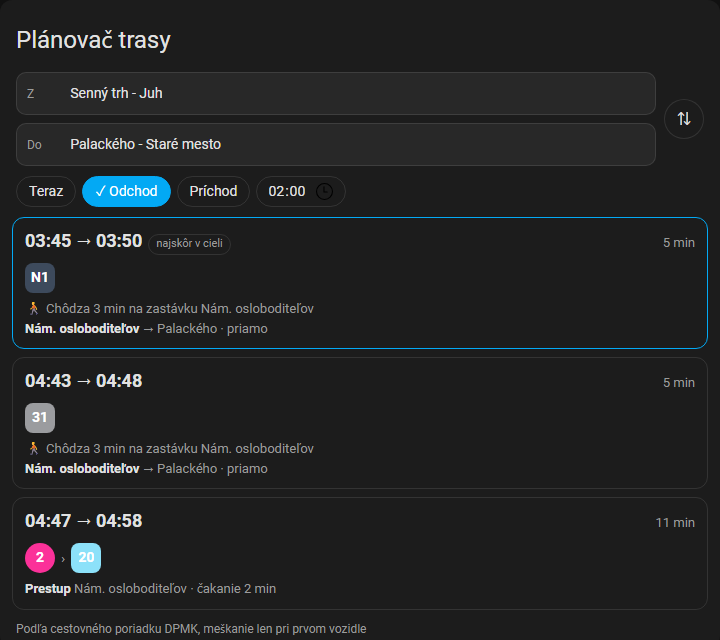
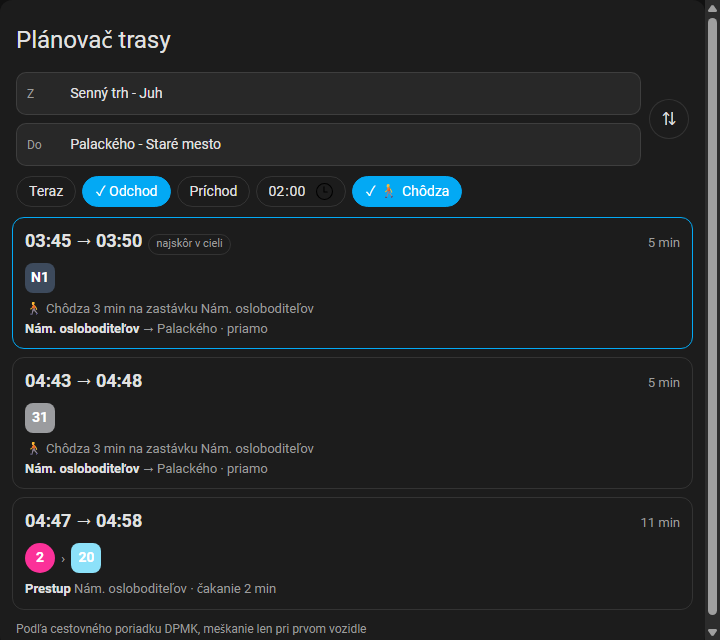
Version 0.4.3: walk switch on the route card, card served without a stale copy
The route card gets a Walk switch next to the time buttons (show_walk: false hides it). The card is served from a fixed address that the browser revalidates, so a refreshed page loads an updated card without a restart. The card is loaded through the extra module URL only, as in 0.3.x; a dashboard resource left by 0.4.0-0.4.2 is removed.

Changed region(s): [[0.9167, 0.0, 1.0, 1.0], [0.4889, 0.25, 0.6417, 0.3438], [0.9167, 0.1562, 0.9472, 0.2188]]

diff --git a/custom_components/dpmk/www/dpmk-departures-card.js b/custom_components/dpmk/www/dpmk-departures-card.js
@@ -54,6 +54,8 @@
       route_name: "DPMK plánovač trasy",
       route_desc: "Spojenie medzi dvoma zastávkami DPMK Košice, aj s prestupom",
       walk: "Chôdza k blízkej zastávke (m, 0 = vypnuté)",
+      walk_switch: "Chôdza",
+      show_walk: "Zobraziť prepínač chôdze",
       route_walk_start: "Chôdza {min} min na zastávku {stop}",
       route_walk_end: "Chôdza {min} min zo zastávky {stop}",
       none: "Žiadne ďalšie odchody",
@@ -123,6 +125,8 @@
       route_name: "DPMK route planner",
       route_desc: "Connections between two DPMK Košice stops, also with a change",
       walk: "Walk to a nearby stop (m, 0 = off)",
+      walk_switch: "Walk",
+      show_walk: "Show the walk switch",
       route_walk_start: "Walk {min} min to {stop}",
       route_walk_end: "Walk {min} min from {stop}",
       none: "No upcoming departures",
@@ -873,6 +877,9 @@
         to: String(s.to || this._config.to_stop || ""),
         mode: ["now", "depart", "arrive"].includes(s.mode) ? s.mode : "now",
         time: /^\d\d:\d\d$/.test(s.time || "") ? s.time : nowHHMM(),
+        // the walk switch: what was chosen last time, else on when the card settings give a distance
+        walk: s.walkSet === true ? !!s.walk : Number(this._config.walk) > 0,
+        walkSet: s.walkSet === true, // only a click on the switch is remembered, not the default
       };
     }
 
@@ -968,6 +975,7 @@
             <button type="button" data-m="depart"></button>
             <button type="button" data-m="arrive"></button>
             <input type="time">
+            <button type="button" data-walk></button>
           </div>
           <div class="results" aria-live="polite" aria-busy="false"></div>
           <div class="foot"></div>
@@ -984,6 +992,7 @@
         if (!b) return;
         if (b.dataset.m) this._set({ mode: b.dataset.m });
         else if (b.hasAttribute("data-swap")) this._set({ from: this._state.to, to: this._state.from });
+        else if (b.hasAttribute("data-walk")) this._set({ walk: !this._state.walk, walkSet: true });
       });
     }
 
@@ -1026,6 +1035,10 @@
         b.textContent = t(`route_${b.dataset.m}`);
         b.setAttribute("aria-pressed", String(this._state.mode === b.dataset.m));
       }
+      const walk = q("[data-walk]");
+      walk.textContent = `🚶 ${t("walk_switch")}`;
+      walk.setAttribute("aria-pressed", String(!!this._state.walk));
+      walk.hidden = this._config.show_walk === false;
       const time = q("input[type=time]");
       time.hidden = this._state.mode === "now";
       time.value = this._state.time;
@@ -1061,7 +1074,13 @@
         const msg = { type: "dpmk/plan_route", from, to, mode, limit: this._config.max_rows || 4 };
         if (mode !== "now") msg.time = time;
         // metres one may walk to a nearby stop at the start and the end; left out = the integration's default
-        if (Number.isFinite(Number(this._config.walk))) msg.walk = Math.max(0, Math.min(600, Math.round(Number(this._config.walk))));
+        const cfgWalk = Number(this._config.walk);
+        if (this._config.show_walk === false) {
+          if (Number.isFinite(cfgWalk)) msg.walk = Math.max(0, Math.min(600, Math.round(cfgWalk)));
+        } else {
+          // the switch: on = the distance of the card settings (300 m when none is set), off = no walking
+          msg.walk = this._state.walk ? Math.max(0, Math.min(600, Math.round(cfgWalk > 0 ? cfgWalk : 300))) : 0;
+        }
         const result = await this._hass.callWS(msg);
         if (seq !== this._seq) return;
         this._hasResults = true;
@@ -1181,13 +1200,14 @@
           ? { name, selector: { select: { mode: "dropdown", options: stops.map((s) => ({ value: s.id, label: s.label })) } } }
           : { name, selector: { text: {} } };
       this._form.hass = this._hass;
-      this._form.data = { max_rows: 4, walk: 0, ...this._config };
+      this._form.data = { max_rows: 4, walk: 0, show_walk: true, ...this._config };
       this._form.schema = [
         pick("from_stop"),
         pick("to_stop"),
         { name: "title", selector: { text: {} } },
         { name: "max_rows", selector: { number: { min: 1, max: 8, mode: "box" } } },
         { name: "walk", selector: { number: { min: 0, max: 600, step: 50, mode: "box", unit_of_measurement: "m" } } },
+        { name: "show_walk", selector: { boolean: {} } },
         LANGUAGE_FIELD,
       ];
     }

diff --git a/custom_components/dpmk/__init__.py b/custom_components/dpmk/__init__.py
@@ -3,14 +3,14 @@
 from __future__ import annotations
 
 import hashlib
-import json
 import logging
 from pathlib import Path
 
 import voluptuous as vol
+from aiohttp import web
 from homeassistant.components import websocket_api
 from homeassistant.components.frontend import add_extra_js_url
-from homeassistant.components.http import StaticPathConfig
+from homeassistant.components.http import HomeAssistantView
 from homeassistant.config_entries import ConfigEntry
 from homeassistant.core import HomeAssistant, callback
 from homeassistant.helpers.aiohttp_client import async_get_clientsession
@@ -28,16 +28,6 @@ PLATFORMS = ["sensor"]
 _LOGGER = logging.getLogger(__name__)
 
 
-def _card_version(card: Path) -> str:
-    """Cache-busting token: the version from manifest.json plus a hash of the card file.
-
-    The version lives only in manifest.json; the hash makes the URL change whenever the file
-    does, so a browser can never keep an old copy of the card after an update.
-    """
-    manifest = json.loads((Path(__file__).parent / "manifest.json").read_text(encoding="utf-8"))
-    return f"{manifest['version']}-{hashlib.sha1(card.read_bytes()).hexdigest()[:8]}"
-
-
 def _resources(hass: HomeAssistant):
     """The dashboard resources, when they are stored (not defined in YAML); otherwise None."""
     lovelace = hass.data.get("lovelace")
@@ -45,29 +35,45 @@ def _resources(hass: HomeAssistant):
     return resources if hasattr(resources, "async_create_item") else None
 
 
-async def _ensure_resource(hass: HomeAssistant, url: str) -> None:
-    """Keep the card in the dashboard resources.
+async def _remove_resources(hass: HomeAssistant) -> None:
+    """Remove the card from the dashboard resources.
 
-    The frontend loads these before it draws any card, so the card is known even when a page is
-    opened right after a restart, before this integration has started. Without it the card relies
-    on the extra module URL alone, which a page built too early does not contain.
+    Versions 0.4.0 to 0.4.2 wrote it there; the card is loaded through the extra module URL only
+    (as in 0.3.x), so a leftover entry would load the same file a second time.
     """
     try:
         resources = _resources(hass)
-        if resources is None:
+        if resources is None or not hasattr(resources, "async_delete_item"):
             return
         if not getattr(resources, "loaded", True):
             await resources.async_get_info()  # loads the stored list, as the frontend does
-        wanted = {"res_type": "module", "url": url}
-        for item in resources.async_items():
+        for item in list(resources.async_items()):
             if item["url"].split("?")[0] == CARD_URL:
-                # (stored items call the kind "type", while create and update take "res_type")
-                if item["url"] != url or item.get("type") != "module":
-                    await resources.async_update_item(item["id"], wanted)
-                return
-        await resources.async_create_item(wanted)
-    except Exception as err:  # the extra module URL still loads the card
-        _LOGGER.debug("Could not add the card to the dashboard resources: %s", err)
+                await resources.async_delete_item(item["id"])
+    except Exception as err:  # a leftover resource is harmless
+        _LOGGER.debug("Could not remove the card from the dashboard resources: %s", err)
+
+
+class CardView(HomeAssistantView):
+    """Serves the card file so that the browser asks again every time (ETag, no stale copy).
+
+    The address never changes, so a refreshed page loads a new card after an update without a
+    restart of Home Assistant. Unchanged files answer 304 and cost almost nothing.
+    """
+
+    url = CARD_URL
+    name = "dpmk:card"
+    requires_auth = False  # a script tag cannot send the login token
+
+    def __init__(self, path: Path) -> None:
+        self._path = path
+
+    async def get(self, request: web.Request) -> web.Response:
+        data = await request.app["hass"].async_add_executor_job(self._path.read_bytes)
+        headers = {"Cache-Control": "no-cache", "ETag": f'"{hashlib.sha1(data).hexdigest()[:16]}"'}
+        if request.headers.get("If-None-Match") == headers["ETag"]:
+            return web.Response(status=304, headers=headers)
+        return web.Response(body=data, content_type="text/javascript", charset="utf-8", headers=headers)
 
 
 async def _warm_network(hass: HomeAssistant) -> None:
@@ -80,16 +86,15 @@ async def _warm_network(hass: HomeAssistant) -> None:
 async def async_setup(hass: HomeAssistant, config: ConfigType) -> bool:
     """Serve the Lovelace card and load it on every dashboard."""
     card = Path(__file__).parent / "www" / "dpmk-departures-card.js"
-    await hass.http.async_register_static_paths([StaticPathConfig(CARD_URL, str(card), False)])
-    url = f"{CARD_URL}?v={await hass.async_add_executor_job(_card_version, card)}"
-    add_extra_js_url(hass, url)
+    hass.http.register_view(CardView(card))
+    add_extra_js_url(hass, CARD_URL)
 
-    async def add_resource(_hass: HomeAssistant) -> None:
-        await _ensure_resource(hass, url)
+    async def started(_hass: HomeAssistant) -> None:
+        await _remove_resources(hass)
         # build the line network now, so the first route search does not wait for it
         hass.async_create_background_task(_warm_network(hass), f"{DOMAIN} line network")
 
-    async_at_started(hass, add_resource)  # the dashboards are up by then
+    async_at_started(hass, started)  # the dashboards are up by then
 
     # the shared pieces, also used by the route card (which works without a configured stop)
     store = hass.data.setdefault(DOMAIN, {})
@@ -156,18 +161,11 @@ async def _reload(hass: HomeAssistant, entry: ConfigEntry) -> None:
 
 
 async def async_remove_entry(hass: HomeAssistant, entry: ConfigEntry) -> None:
-    """Delete the saved timetables of a removed entry, and the card resource with the last one."""
+    """Delete the saved timetables of a removed entry."""
     await cache_store(hass, entry.entry_id).async_remove()
     if any(e.entry_id != entry.entry_id for e in hass.config_entries.async_entries(DOMAIN)):
         return
-    try:
-        resources = _resources(hass)
-        if resources is not None and hasattr(resources, "async_delete_item"):
-            for item in list(resources.async_items()):
-                if item["url"].split("?")[0] == CARD_URL:
-                    await resources.async_delete_item(item["id"])
-    except Exception as err:  # a leftover resource is harmless
-        _LOGGER.debug("Could not remove the card from the dashboard resources: %s", err)
+    await _remove_resources(hass)
 
 
 async def async_unload_entry(hass: HomeAssistant, entry: ConfigEntry) -> bool:

diff --git a/README.md b/README.md
@@ -171,6 +171,7 @@ to_stop: "113"         # optional destination
 title: Plánovač trasy  # optional
 max_rows: 4            # optional, 1-8 connections
 walk: 300              # optional, metres to walk to a nearby stop at the start and the end (default 0 = off)
+show_walk: true        # optional, false hides the walk switch of the card
 language: sk           # optional: sk | en | auto. Leave it out to use the integration setting
 ```
 
@@ -184,7 +185,7 @@ Night lines work too, for example N1 from Staničné námestie to Madridská at 
 
 ![Route card, night line N1](https://raw.githubusercontent.com/TGergely/ha_dpmk/main/docs/images/example-route-night.png)
 
-**Walking to a nearby stop.** Maybe no bus goes from your stop at that hour, but one stop away a better line runs. Walking is **off by default**. Turn it on with `walk` (for example 300 m, about one stop; 0 = off; up to 600 m) and the planner also tries the stops within that distance of the start and of the destination. It shows the walk as a line on the connection ("Chôdza 3 min na zastávku …" / "Walk 3 min to …"), you set off earlier by the walking time, and the arrival includes the walk at the end. A bus that leaves before you could get to its stop is not offered. Walking is only tried when the stops you picked give fewer than three connections, so a good direct connection is never replaced. The distance is a straight line (about 70 m per minute), not a street route.
+**Walking to a nearby stop.** Maybe no bus goes from your stop at that hour, but one stop away a better line runs. Walking is **off by default**. Turn it on with `walk` (for example 300 m, about one stop; 0 = off; up to 600 m) and the planner also tries the stops within that distance of the start and of the destination. It shows the walk as a line on the connection ("Chôdza 3 min na zastávku …" / "Walk 3 min to …"), you set off earlier by the walking time, and the arrival includes the walk at the end. A bus that leaves before you could get to its stop is not offered. Walking is only tried when the stops you picked give fewer than three connections, so a good direct connection is never replaced. The distance is a straight line (about 70 m per minute), not a street route. The card has a **🚶 Chôdza / Walk** switch next to the time buttons: turn walking on or off right there (on = the `walk` distance, or 300 m when none is set). The choice is remembered in the browser; `show_walk: false` hides the switch.
 
 ![Route card, walking to a nearby stop](https://raw.githubusercontent.com/TGergely/ha_dpmk/main/docs/images/example-route-walk.png)
 
@@ -244,7 +245,7 @@ Weekends and Slovak public holidays always use the "free days" timetable.
 **"Custom element doesn't exist: dpmk-departures-card" (or the map card)**
 1. Open `http://YOUR_HA:8123/dpmk_static/dpmk-departures-card.js`. You should see JavaScript code. If not, the integration is not loaded: check **Settings → System → Logs** for `dpmk`.
 2. Clear the frontend cache (Ctrl+F5, or in the phone app: Settings → Companion App → Debugging → Reset frontend cache).
-3. If it still fails, add the file as a dashboard resource: **Settings → Dashboards → ⋮ → Resources → Add resource**, URL `/dpmk_static/dpmk-departures-card.js?v=1` (change the number after an update), type **JavaScript module**. The file protects itself against being loaded twice.
+3. If it still fails, add the file as a dashboard resource: **Settings → Dashboards → ⋮ → Resources → Add resource**, URL `/dpmk_static/dpmk-departures-card.js`, type **JavaScript module**. The file protects itself against being loaded twice.
 
 **Only a few buses on the map** — the radius is probably small. Increase it in the options (1500 m is a good start). Buses without a green dot in the departures list have not started their trip yet and are not on the map.
 

diff --git a/CHANGELOG.md b/CHANGELOG.md
@@ -4,6 +4,21 @@ All notable changes to this project are listed here. The version number lives on
 `custom_components/dpmk/manifest.json`. While the number starts with 0, new features may still
 change how things work.
 
+## 0.4.3 - 2026-11-23
+
+- **Walk switch on the route card**: a "🚶 Chôdza / Walk" button next to Teraz / Odchod / Príchod turns walking to a
+  nearby stop on or off without opening the settings. On uses the card's `walk` distance (300 m when none is
+  set). The choice is remembered in the browser; the card starts with the switch on when `walk` is set.
+  `show_walk: false` hides the switch (new editor option "Show the walk switch").
+- **A new card file is picked up by a page refresh.** The card is now served from a fixed address and the browser
+  checks it on every load (a small "unchanged" answer when nothing changed). Before, the address carried a
+  version token that was only computed when Home Assistant started, so an updated card file could keep
+  showing the old card until then. Changes that only touch the card need no restart; changes to the Python
+  part of the integration are still loaded only when Home Assistant starts.
+- **The card is loaded as in 0.3.x** (one extra module URL). Versions 0.4.0 to 0.4.2 also added it to the
+  dashboard resources (the 0.3.2 attempt never took effect because of a wrong call); that is gone, and a
+  resource entry left by those versions is removed once Home Assistant has started.
+
 ## 0.4.2 - 2026-11-23
 
 - **Walking to a nearby stop at the start and the end** (route card and saved routes), off by default. When the stops you
